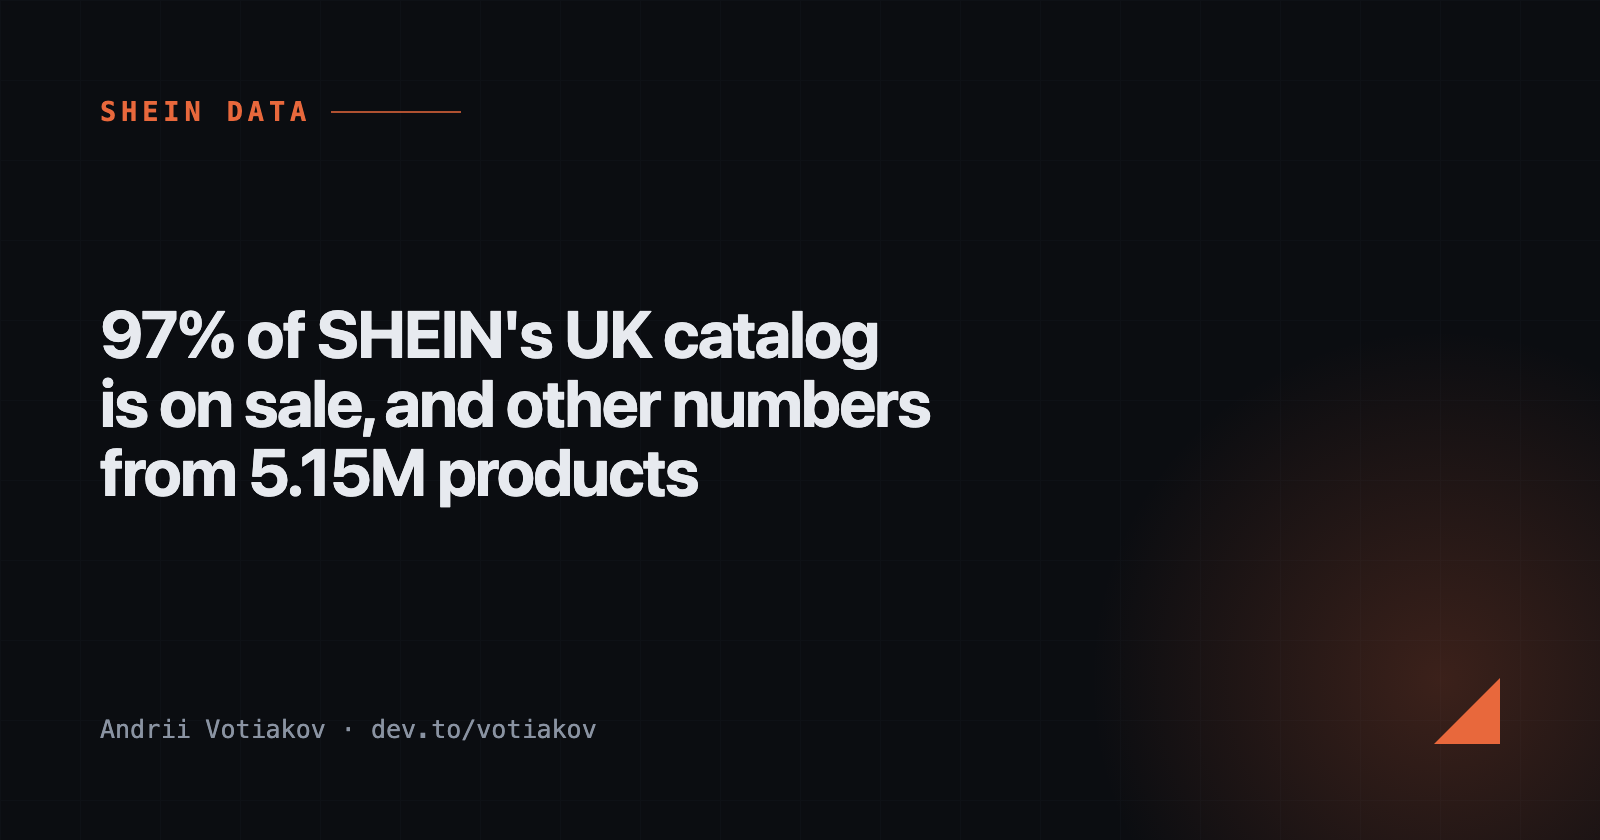
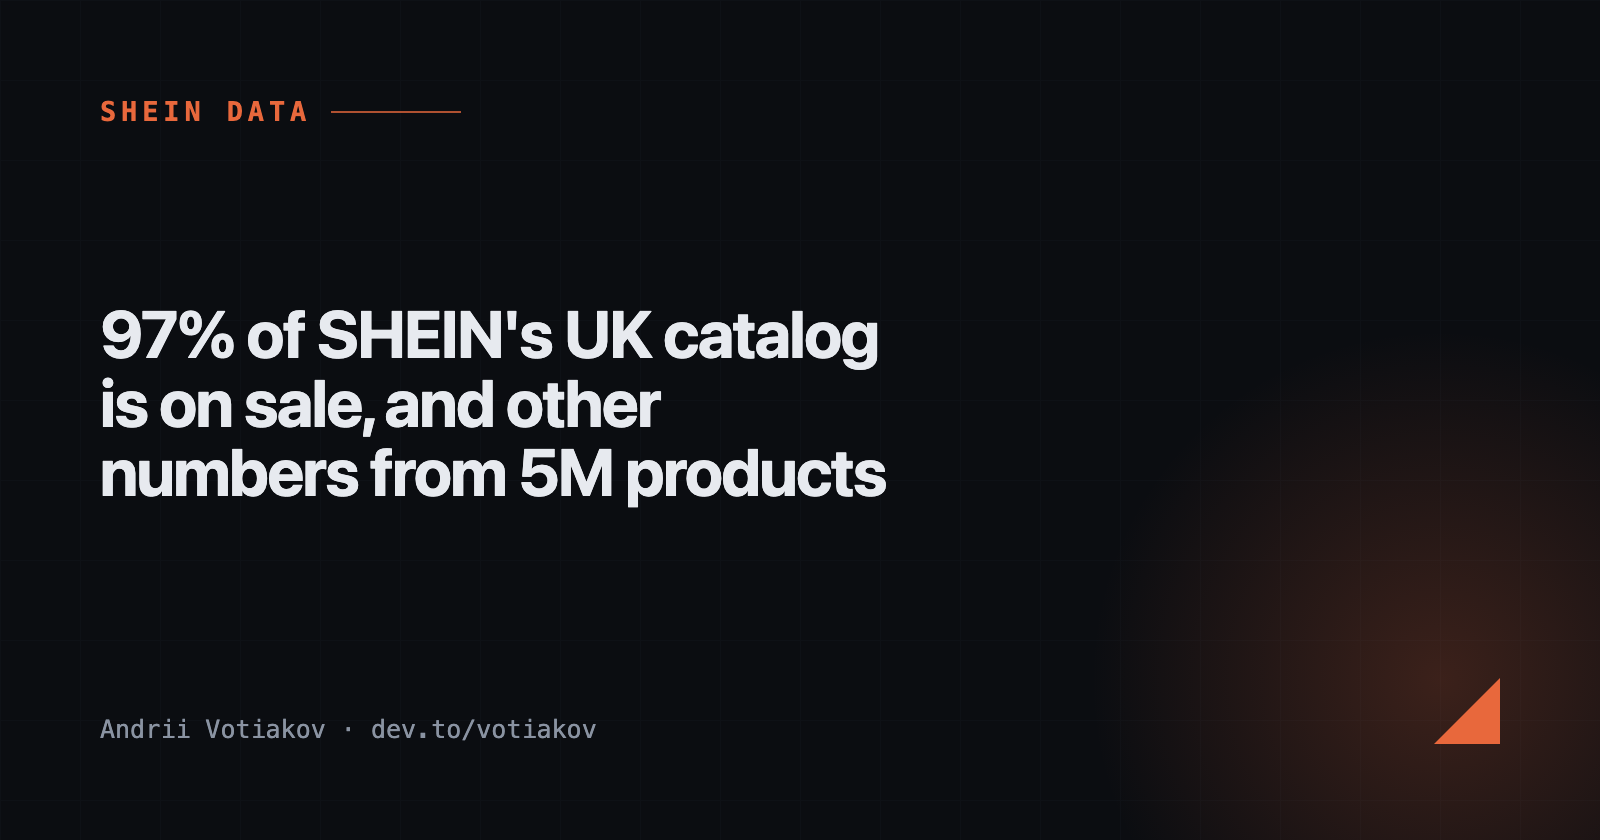
cover 47: title now says 5M products

Changed region(s): [[0.0625, 0.4643, 0.5938, 0.619]]

diff --git a/gen.py b/gen.py
@@ -78,7 +78,7 @@ DATA = [
  ("44","NO API","Every UK pub in one static .js file"),
  ("45","SITEMAP","When there's no API, the sitemap is your database"),
  ("46","HEADLESS BROWSER","When you actually need a headless browser (and when you don't)"),
- ("47","SHEIN DATA","97% of SHEIN's UK catalog is on sale, and other numbers from 5.15M products"),
+ ("47","SHEIN DATA","97% of SHEIN's UK catalog is on sale, and other numbers from 5M products"),
 ]
 
 outdir = os.path.dirname(os.path.abspath(__file__))
